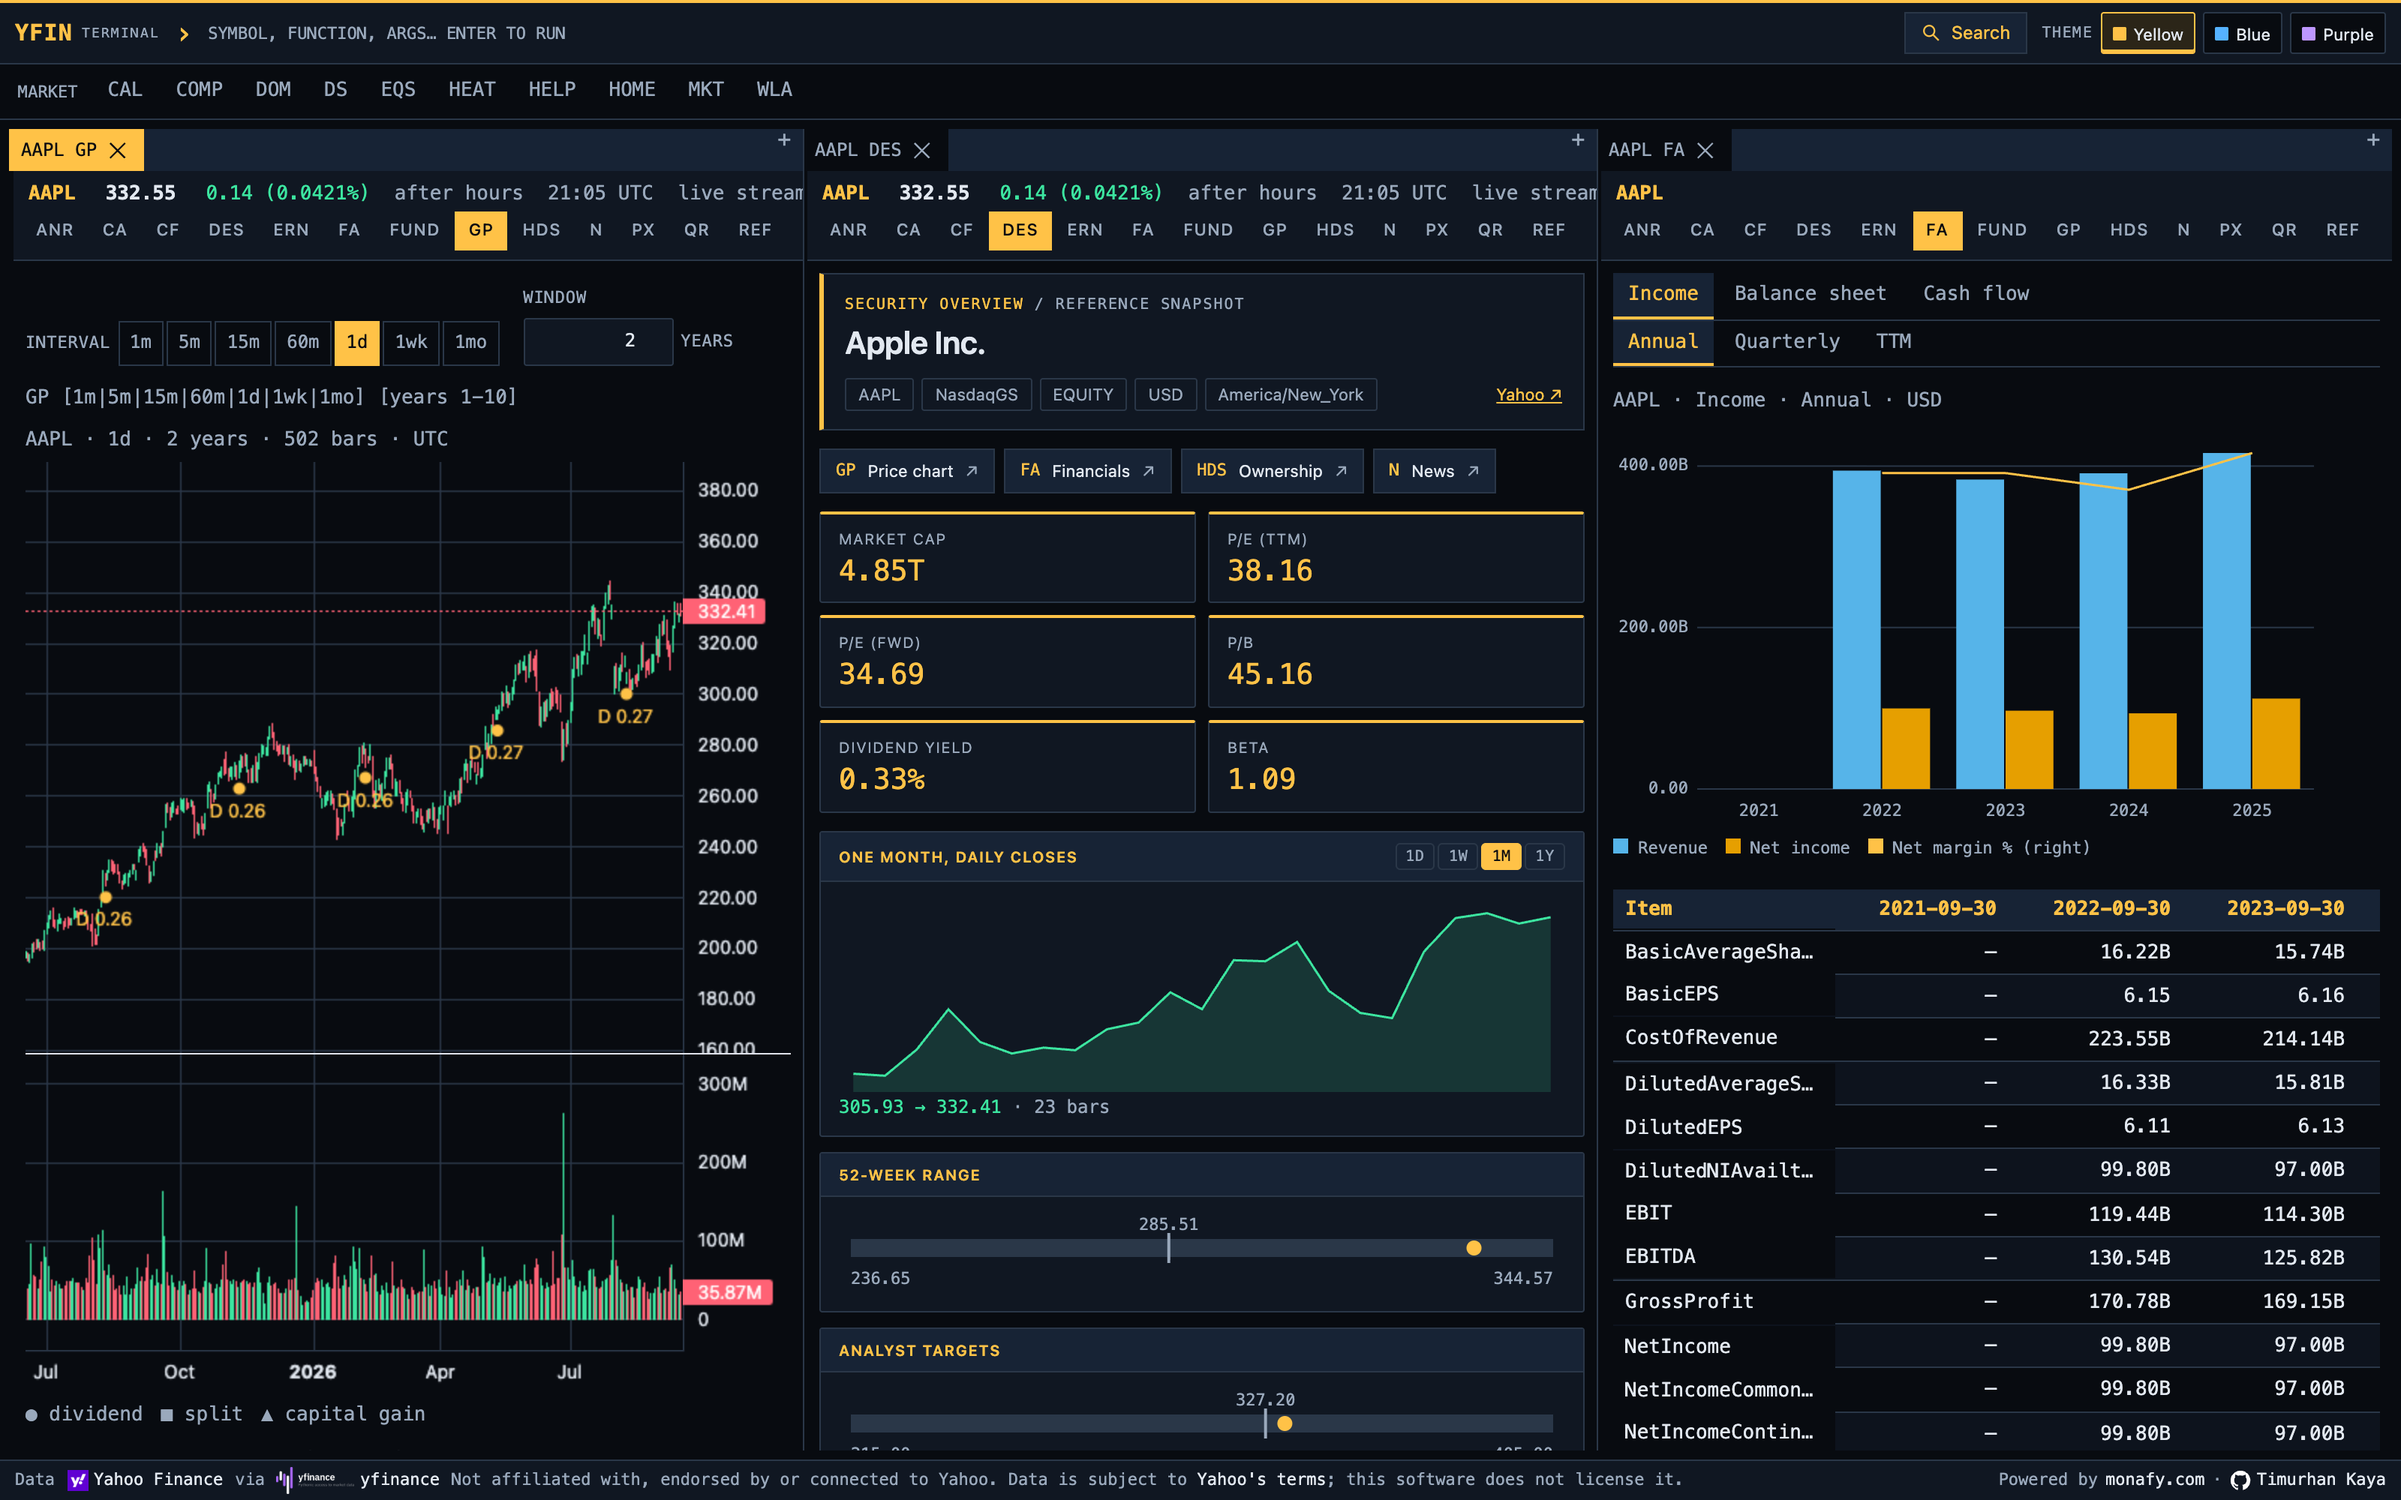
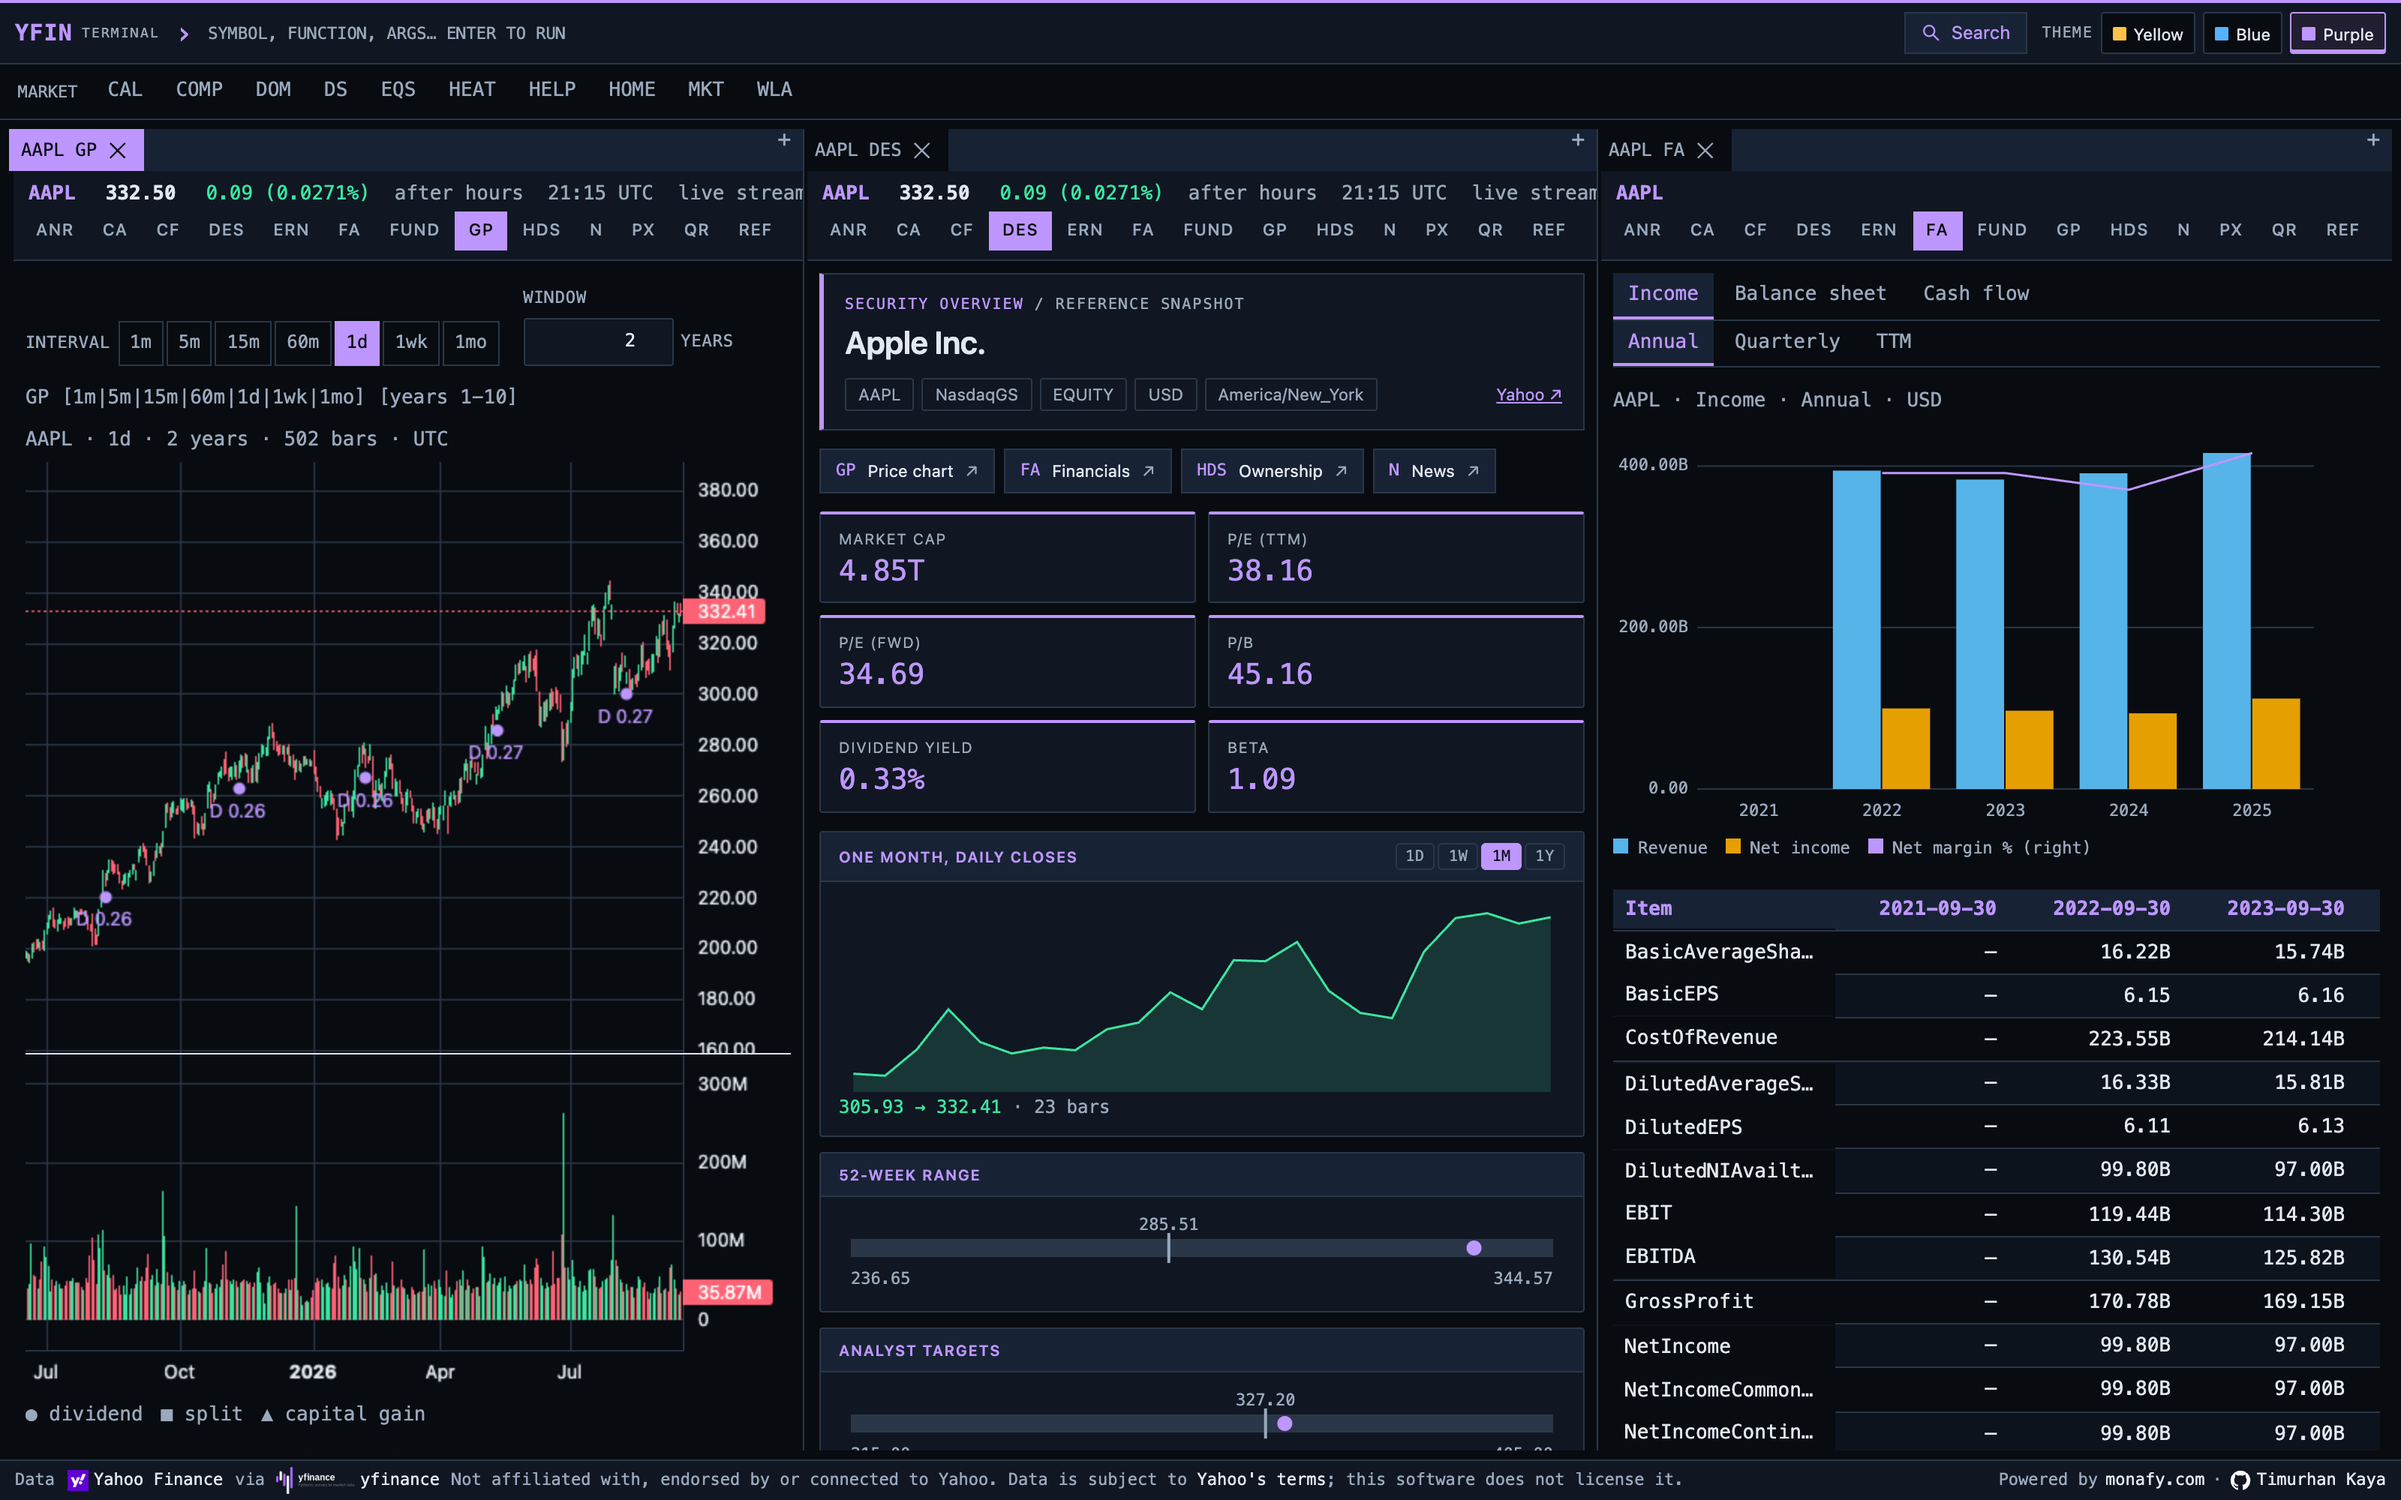
docs: home page and workspace screenshots in the violet accent
Both taken against the local compose stack after `yfin sync` for the
symbols on screen, `market sync`, `screen sync --screens
day_gainers,day_losers` and `domain sync` for US, with the stream on.

diff --git a/README.md b/README.md
@@ -9,11 +9,15 @@ software, not Yahoo Finance data — see
 supported way to run it; [hosted operation](#hosted-operation) means
 someone running *your* instance, not a shared Yahoo feed.
 
-![The web terminal: AAPL daily chart with corporate actions, security overview and annual income statement side by side, live after-hours price on the symbol band](docs/images/terminal.png)
+![The web terminal home page: market summary with sparklines, sector treemap, latest news, day gainers and losers](docs/images/home.png)
 
-*`/ui/w/-` after `AAPL GP`, `+`, `AAPL DES` and `AAPL FA` with
-Ctrl+Enter — six symbols synced, the stream on. See
-[Web terminal](#web-terminal).*
+*`/ui` after `yfin sync`, `market sync`, `screen sync` and `domain sync`
+against the compose stack.*
+
+![A workspace: AAPL daily chart with corporate actions, security overview and annual income statement side by side, live after-hours price on the symbol band](docs/images/terminal.png)
+
+*`/ui/w/-` after `AAPL GP`, `+`, then `AAPL DES` and `AAPL FA` with
+Ctrl+Enter — the stream on. See [Web terminal](#web-terminal).*
 
 ---
 
